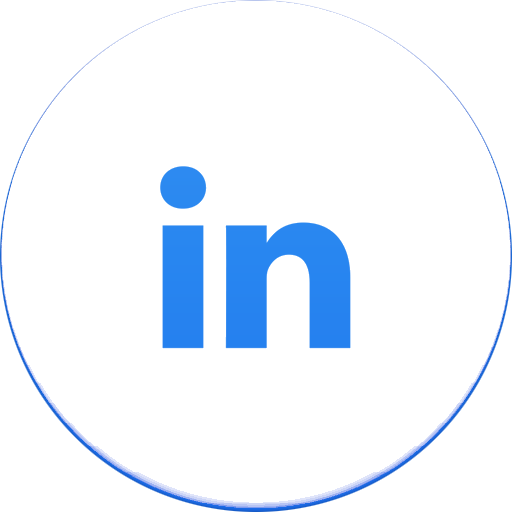
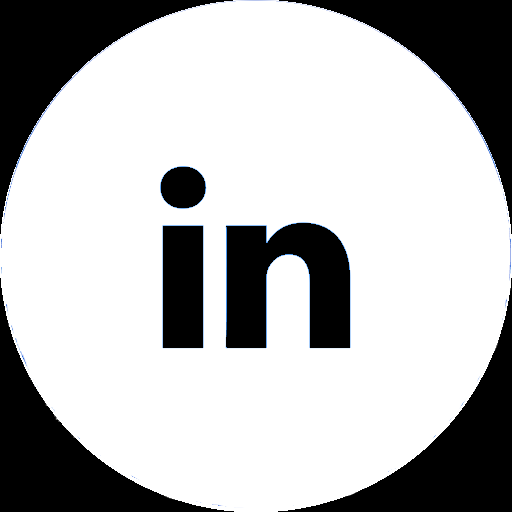
footer restyle

diff --git a/src/components/footer.js b/src/components/footer.js
@@ -5,6 +5,7 @@ import { mainColour } from '../style/themeStyle';
 import styled from "styled-components";
 import linkedInLogo from '../images/linkedin-icon.png';
 import youtubeLogo from '../images/youtube-icon.png';
+import githubLogo from '../images/github-icon.png';
 
 const FooterWrapper = styled.footer`
   position: relative;
@@ -17,8 +18,11 @@ const FooterWrapper = styled.footer`
   display: flex;
   flex-direction: column;
   .footer-container{
-    width: 50%;
+    display: flex;
     padding: 10px 10px;
+    flex-direction: column;
+    width: 50%;
+    background-color: black;
   }
   .left-footer-container{
     text-align: right !important;
@@ -27,6 +31,7 @@ const FooterWrapper = styled.footer`
   }
   #footer-links-container{
     display: flex;
+    flex-direction: row;
     justify-content: center;
     width: 100%;
   }
@@ -34,11 +39,12 @@ const FooterWrapper = styled.footer`
     flex-direction: column;
     .footer-container{
       width: 100%;
-      padding: 10px 0;
+      padding: 0px;
       text-align: center !important;
     }
     #footer-links-container{
       flex-direction: column;
+      background-color: black;
     }
   }
 `
@@ -59,19 +65,14 @@ const SocialMediaLogoWrapper = styled.div`
   width: 100%;
   justify-content: center;
   .logo{
+    background-color: white;
     margin: 0px 20px;
-    filter: grayscale(1);
-    height: 50px;
-    width: 50px;
+    height: 30px;
+    width: 30px;
     transition: ease 0.2s;
   }
   a:hover .logo{
-    filter: grayscale(0);
-  }
-  @media screen and (max-width: ${smallScreenWidth}px){
-    .logo{
-      filter: grayscale(0);
-    }
+    background-color: ${mainColour};
   }
 `
 
@@ -97,8 +98,9 @@ const Footer = () => {
     return (
     <FooterWrapper>
       <SocialMediaLogoWrapper>
-        <a href="https://www.linkedin.com/in/marc-philippe-beaujean-5ab27815a/" ><img className="logo" src={linkedInLogo} alt="LinkedIn Logo" /></a>
-        <a href=""><img className="logo" src={youtubeLogo} alt="YouTube Logo" /></a>
+        <a href="https://www.linkedin.com/in/marc-philippe-beaujean-5ab27815a/" target="_blank"><img className="logo" src={linkedInLogo} alt="LinkedIn Logo" /></a>
+        <a href="https://www.youtube.com/channel/UCrGAw9i5HoaByeiQAV5FaLA?guided_help_flow=3" target="_blank"><img className="logo" src={youtubeLogo} alt="YouTube Logo" /></a>
+        <a href="https://github.com/marcphilippebeaujean-abertay" target="_blank"><img className="logo" src={githubLogo} alt="GitHub Logo" /></a>
       </SocialMediaLogoWrapper>
       <div id="footer-links-container">
         <div className={`left-footer-container footer-container`}>
@@ -122,6 +124,7 @@ const Footer = () => {
             ) : null)}
         </div>
       </div>
+
     </FooterWrapper>)
     };
 

diff --git a/src/components/contactForm.js b/src/components/contactForm.js
@@ -66,7 +66,10 @@ export default () => {
             </label>
             <label id="recaptcha-token">Don't fill out if you are human<input type="text" name="bot-field" /></label>
             <textarea rows="10" id="form-message" className="input-field" name="message" placeholder="Hi Marc, I love your blog!" />
-            <input id="submit-btn" type="submit" value="Submit" disabled />
+            <label htmlFor="submit">
+                By clicking Submit, you agree to the Terms and have read the Data Use Policy, including Cookie Use.
+            </label>
+            <input id="submit-btn" type="submit" value="Submit" name="submit" disabled />
         </ContactsForm>
     )
 }

diff --git a/src/templates/archive.js b/src/templates/archive.js
@@ -79,8 +79,9 @@ export default ({ pageContext }) => {
                    placeholder="Search" />
             <button id="search-btn"><IoIosSearch size="30px"/></button>
         </SearchBar>
-        <SearchResultWrapper>
+        <SearchResultWrapper id="search-results">
         {
+            foundPost.length === 0 ? <h2 style={{textAlign: `center`}}>No posts to see here...</h2>:
             foundPost.map(post => <PostPreview post={post} key={post.title}/>)
         }
         </SearchResultWrapper>

diff --git a/src/style/layoutStyle.js b/src/style/layoutStyle.js
@@ -3,7 +3,7 @@ export const smallScreenWidth = 700;
 
 export const smallScreenSidePadding = 20;
 
-export const footerHeight = 200;
+export const footerHeight = 150;
 export const navMenuHeight = 70;
 export const mediumScreenWidth = 920;
 export const smallScreenNavHeight = navMenuHeight - 20;
